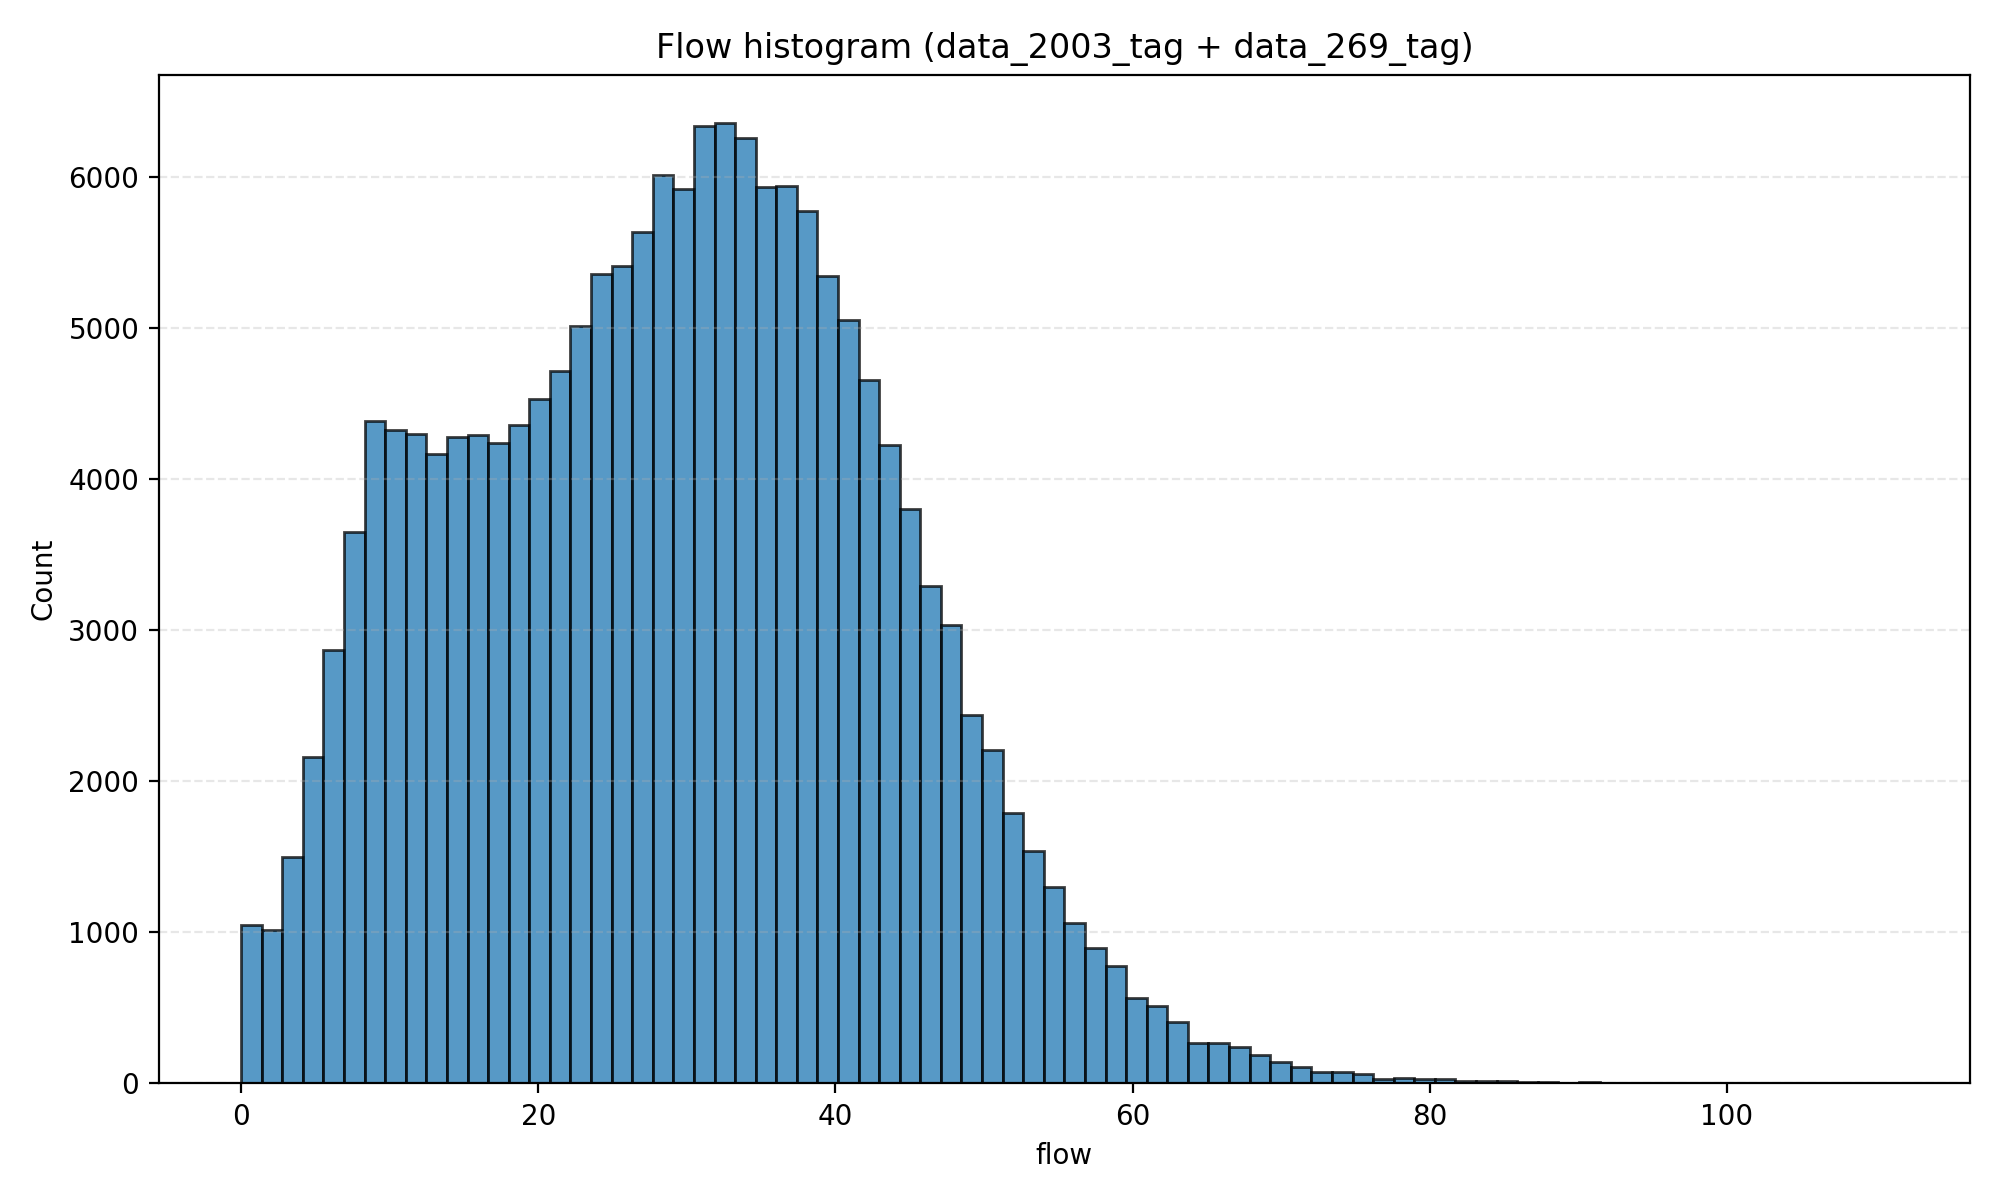
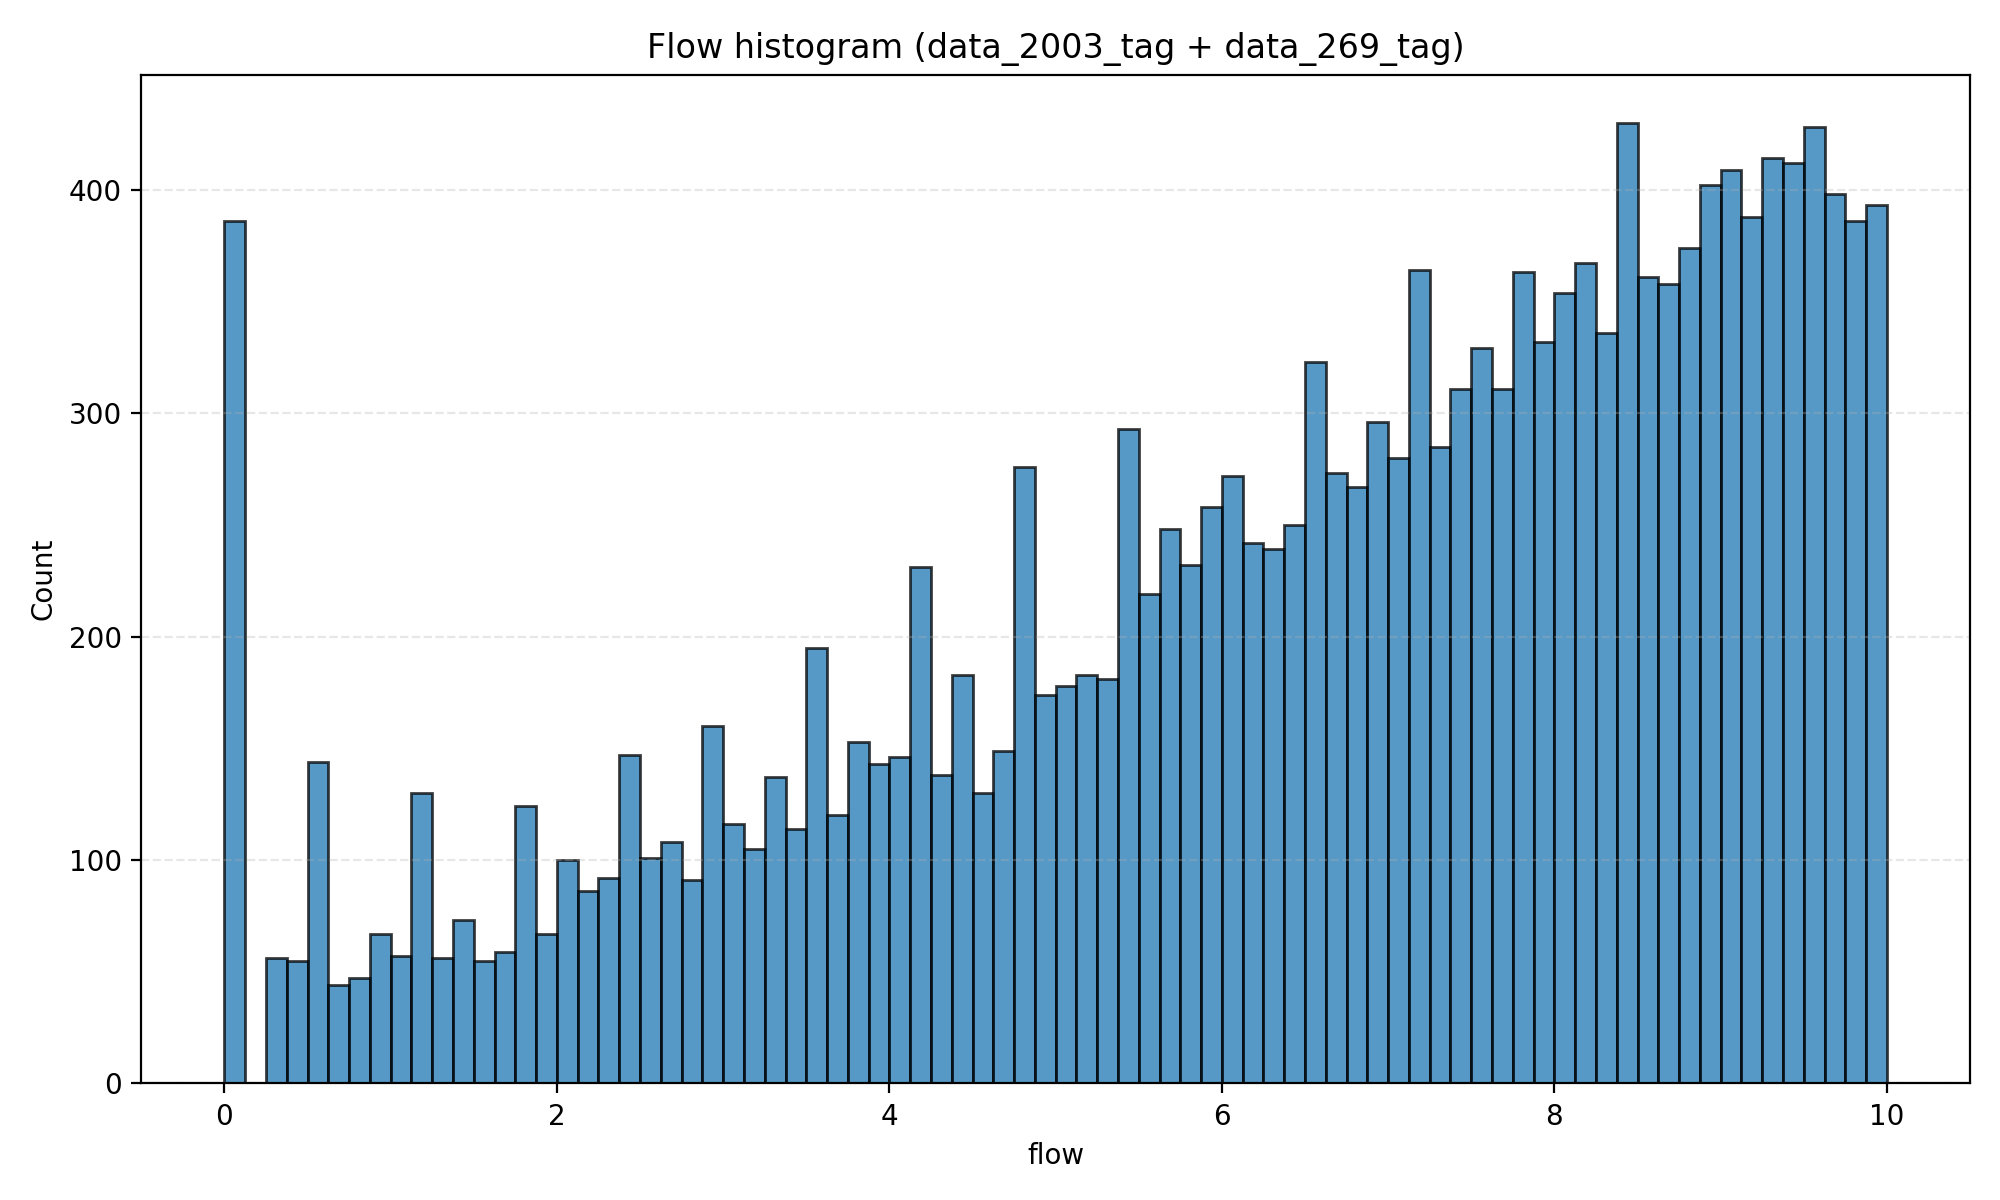
update

diff --git a/data_pipeline_tool/flow_related/filter_flow10.py b/data_pipeline_tool/flow_related/filter_flow10.py
@@ -1,0 +1,122 @@
+#!/usr/bin/env python3
+"""
+根据flow字段过滤JSON文件，只保留flow<=10的entry，
+然后重新整理，每1000个entry放一个JSON文件。
+"""
+
+from __future__ import annotations
+
+import json
+from pathlib import Path
+from typing import Iterable, List
+
+
+DEFAULT_INPUT_DIRS = [
+    Path("/share/project/denghaoge/shilinlu/dataset/GF-Minecraft/data_2003_tag"),
+    Path("/share/project/denghaoge/shilinlu/dataset/GF-Minecraft/data_269_tag"),
+]
+DEFAULT_OUTPUT_DIR = Path("/share/project/denghaoge/shilinlu/dataset/GF-Minecraft/data_flow10_tag")
+ENTRIES_PER_FILE = 1000
+FLOW_THRESHOLD = 10.0
+
+
+def discover_json_files(directories: List[Path]) -> Iterable[Path]:
+    """发现所有JSON文件并按文件名排序。"""
+    for directory in directories:
+        if not directory.exists():
+            print(f"[WARN] 目录不存在: {directory}")
+            continue
+        yield from sorted(directory.glob("*.json"))
+
+
+def filter_entries_by_flow(data: List[dict], flow_threshold: float) -> List[dict]:
+    """过滤出flow<=threshold的entry。"""
+    filtered = []
+    for entry in data:
+        if not isinstance(entry, dict):
+            continue
+        
+        flow = entry.get("flow")
+        if flow is None:
+            continue
+        
+        try:
+            flow_value = float(flow)
+            if flow_value <= flow_threshold:
+                filtered.append(entry)
+        except (ValueError, TypeError):
+            continue
+    
+    return filtered
+
+
+def save_entries_to_file(entries: List[dict], output_path: Path) -> None:
+    """将entry列表保存到JSON文件。"""
+    output_path.parent.mkdir(parents=True, exist_ok=True)
+    with output_path.open("w", encoding="utf-8") as f:
+        json.dump(entries, f, ensure_ascii=False)
+
+
+def main() -> None:
+    """主函数。"""
+    # 创建输出目录
+    DEFAULT_OUTPUT_DIR.mkdir(parents=True, exist_ok=True)
+    
+    # 收集所有符合条件的entry
+    all_filtered_entries: List[dict] = []
+    
+    total_files = 0
+    total_entries = 0
+    total_filtered = 0
+    
+    print("开始扫描JSON文件...")
+    for json_file in discover_json_files(DEFAULT_INPUT_DIRS):
+        try:
+            with json_file.open("r", encoding="utf-8") as f:
+                data = json.load(f)
+            
+            if not isinstance(data, list):
+                print(f"[WARN] {json_file} 不是列表格式，跳过")
+                continue
+            
+            total_files += 1
+            total_entries += len(data)
+            
+            filtered = filter_entries_by_flow(data, FLOW_THRESHOLD)
+            total_filtered += len(filtered)
+            all_filtered_entries.extend(filtered)
+            
+            if total_files % 10 == 0:
+                print(f"已处理 {total_files} 个文件, 收集 {total_filtered} 个符合条件的entry")
+        
+        except Exception as e:
+            print(f"[ERROR] 处理文件 {json_file} 时出错: {e}")
+            continue
+    
+    print(f"\n扫描完成:")
+    print(f"  总文件数: {total_files}")
+    print(f"  总entry数: {total_entries}")
+    print(f"  符合条件的entry数: {total_filtered} (flow <= {FLOW_THRESHOLD})")
+    
+    # 将过滤后的entry分批保存
+    print(f"\n开始保存到输出目录: {DEFAULT_OUTPUT_DIR}")
+    
+    file_index = 0
+    for i in range(0, len(all_filtered_entries), ENTRIES_PER_FILE):
+        batch = all_filtered_entries[i:i + ENTRIES_PER_FILE]
+        output_filename = f"{file_index:06d}.json"
+        output_path = DEFAULT_OUTPUT_DIR / output_filename
+        
+        save_entries_to_file(batch, output_path)
+        file_index += 1
+        
+        if (i // ENTRIES_PER_FILE + 1) % 10 == 0:
+            print(f"  已保存 {file_index} 个文件...")
+    
+    print(f"\n完成! 共生成 {file_index} 个JSON文件")
+    print(f"输出目录: {DEFAULT_OUTPUT_DIR}")
+
+
+if __name__ == "__main__":
+    main()
+

diff --git a/data_pipeline_tool/make_rank_subset.py b/data_pipeline_tool/make_rank_subset.py
@@ -26,8 +26,8 @@ def make_dataset(data_files, data_ranks, metadata):
 
 
 vid_datasets = [
-    "/share/project/denghaoge/shilinlu/dataset/GF-Minecraft/GF2003cache_150225",  # TODO: 替换成你的第1个视频数据集路径
-    "/share/project/denghaoge/shilinlu/dataset/GF-Minecraft/GF269cache_20175",  # TODO: 替换成你的第2个视频数据集路径
+    "/share/project/denghaoge/shilinlu/dataset/GF-Minecraft/GFflow10cacher72_17554"  # TODO: 替换成你的第1个视频数据集路径
+    # "/share/project/denghaoge/shilinlu/dataset/GF-Minecraft/GF269cache_20175",  # TODO: 替换成你的第2个视频数据集路径
 ]
 
 img_datasets = []  # 没有图像数据
@@ -44,7 +44,7 @@ print("VID={}".format(vid_size))
 
 ranks, img_devices = list(range(72)), 0  # 72个GPU全部用于视频训练
 vid_ranks, img_ranks = ranks, []  # 所有ranks分配给视频,图像为空
-out = "/share/project/denghaoge/shilinlu/dataset/GF-Minecraft/GF_training_r72_v1/"  # TODO: 修改为你的输出目录路径
+out = "/share/project/denghaoge/shilinlu/dataset/GF-Minecraft/GF_training_r72_flow10/"  # TODO: 修改为你的输出目录路径
 
 np.random.seed(1234)
 vid_files = sum(

diff --git a/data_pipeline_tool/redump.py b/data_pipeline_tool/redump.py
@@ -1,0 +1,33 @@
+import codewithgpu
+import os
+
+dataset_src = "/share/project/denghaoge/shilinlu/dataset/GF-Minecraft/GF_training_r18_flow10"
+dataset_tgt = "/share/project/denghaoge/shilinlu/dataset/GF-Minecraft/GF_training_r72_flow10"
+os.makedirs(dataset_tgt, exist_ok=True)
+max_examples = 17554 // 72 + 1
+
+# 获取所有子目录（排除METADATA文件）
+subdirs = []
+for item in os.listdir(dataset_src):
+    item_path = os.path.join(dataset_src, item)
+    if os.path.isdir(item_path):
+        subdirs.append(item_path)
+subdirs.sort()
+
+if not subdirs:
+    raise ValueError(f"在 {dataset_src} 中未找到子目录")
+
+# 从第一个子目录获取 features
+first_dataset = codewithgpu.RecordDataset(subdirs[0])
+features = first_dataset._features
+
+# 创建 writer
+writer = codewithgpu.RecordWriter(dataset_tgt, features=features, max_examples=max_examples, zfill_width=6)
+
+# 遍历所有子目录并读取数据
+for subdir in subdirs:
+    dataset = codewithgpu.RecordDataset(subdir)
+    for example in dataset:
+        writer.write(example)
+
+writer.close()

diff --git a/data_pipeline_tool/flow_related/flow_flow_hist.py b/data_pipeline_tool/flow_related/flow_flow_hist.py
@@ -72,8 +72,8 @@ def plot_hist(flows: List[float], output_path: Path, bins: int = 80) -> None:
 
 def parse_args() -> argparse.Namespace:
     default_dirs = [
-        Path("/share/project/denghaoge/shilinlu/dataset/GF-Minecraft/data_2003_tag"),
-        Path("/share/project/denghaoge/shilinlu/dataset/GF-Minecraft/data_269_tag"),
+        Path("/share/project/denghaoge/shilinlu/dataset/GF-Minecraft/data_flow10_tag"),
+        # Path("/share/project/denghaoge/shilinlu/dataset/GF-Minecraft/data_269_tag"),
     ]
 
     parser = argparse.ArgumentParser(description="Compute flow histogram and 40% percentile")

diff --git a/data_pipeline_tool/gpu_related/kill_process.py b/data_pipeline_tool/gpu_related/kill_process.py
@@ -38,7 +38,7 @@ def _iter_hosts(hostfile_path: str) -> Iterable[str]:
 
 if __name__ == "__main__":
     repo_root = os.path.abspath(os.path.dirname(os.path.dirname(__file__)))
-    hostfile = "/share/project/denghaoge/shilinlu/proj/simple_ursa/accelerate_configs/9_nodes_deepspeed.hostfile"
+    hostfile = "/share/project/denghaoge/shilinlu/proj/simple_ursa/accelerate_configs/shilin_10node.hostfile"
 
     cache_script = os.path.join(repo_root, "data_process", "cache_videos.py")
     cache_launcher = os.path.join(repo_root, "data_process", "cache.sh")

diff --git a/data_process/merge_records.py b/data_process/merge_records.py
@@ -48,7 +48,7 @@ features = {
     "text": "STRING",
     "flow": "FLOAT32",
 }
-collect_recrods("/share/project/denghaoge/shilinlu/dataset/GF-Minecraft/GF_269_cache", features)
+collect_recrods("/share/project/denghaoge/shilinlu/dataset/GF-Minecraft/GF_flow10_cache", features)
 
 # features = {
 #     "id": "STRING",
